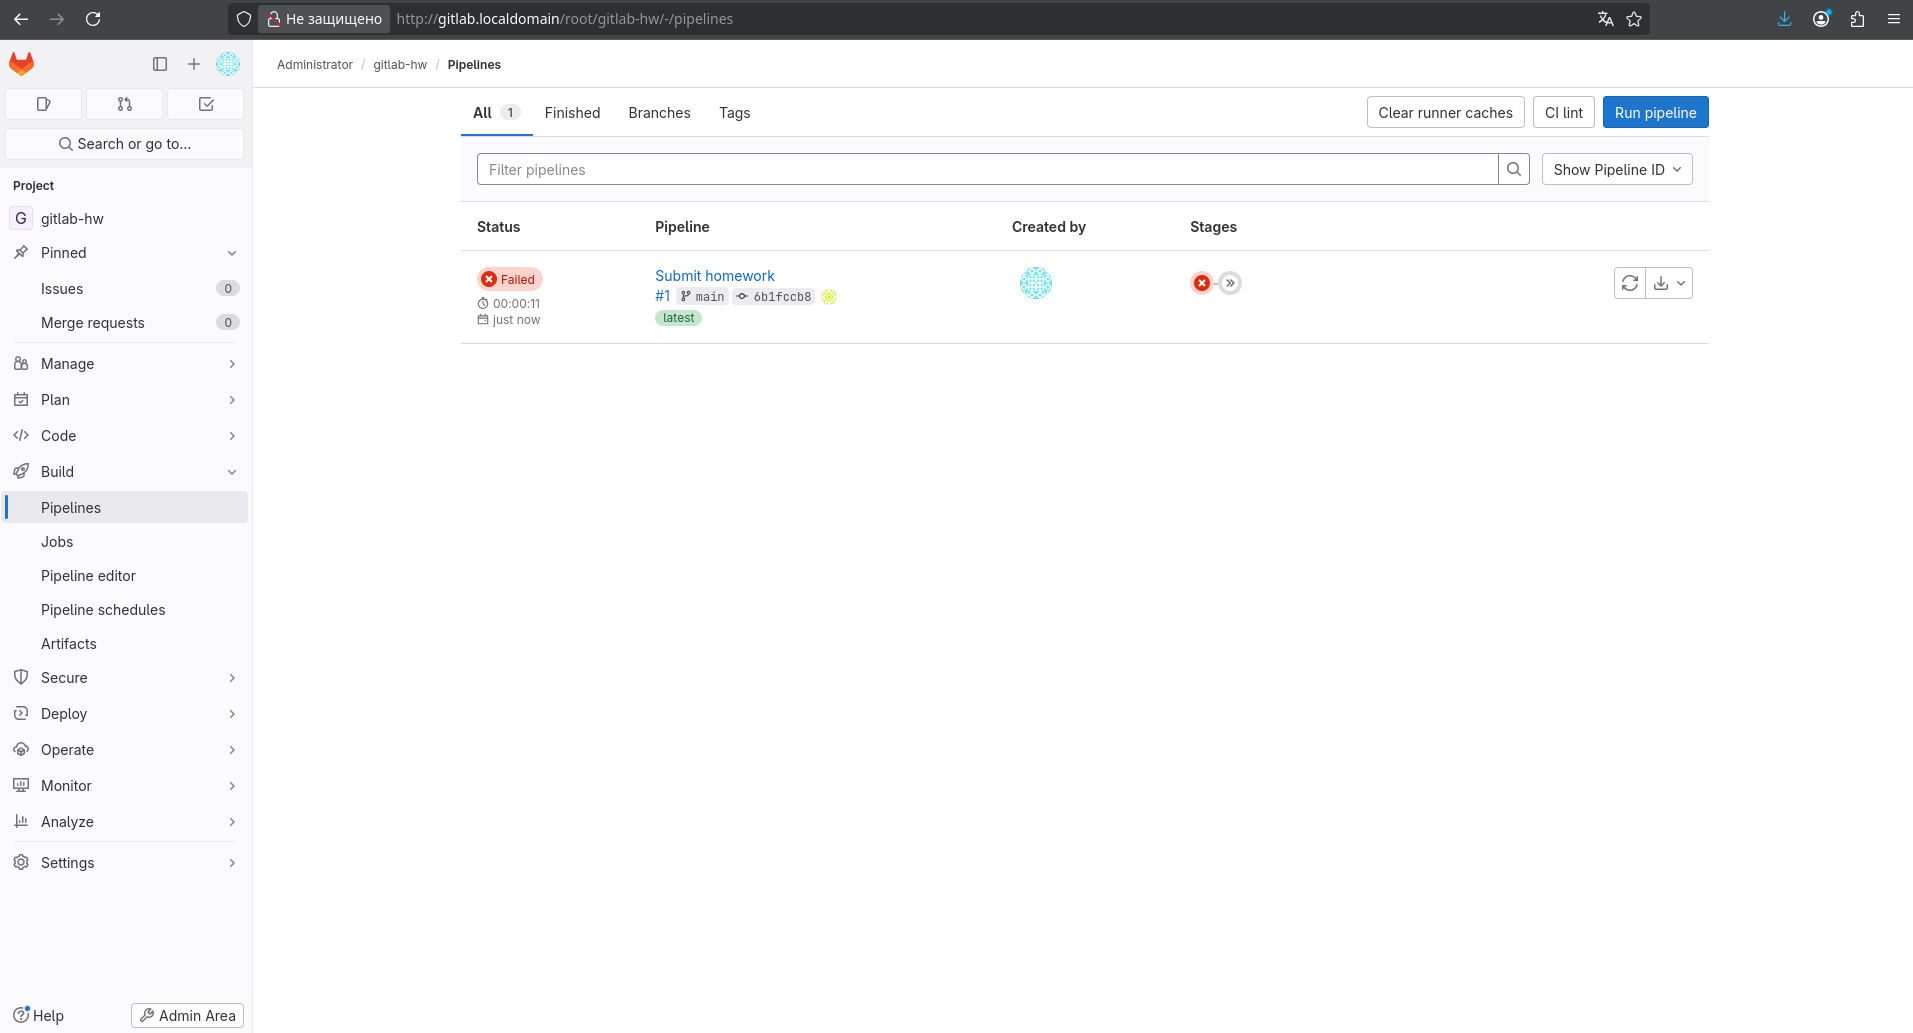
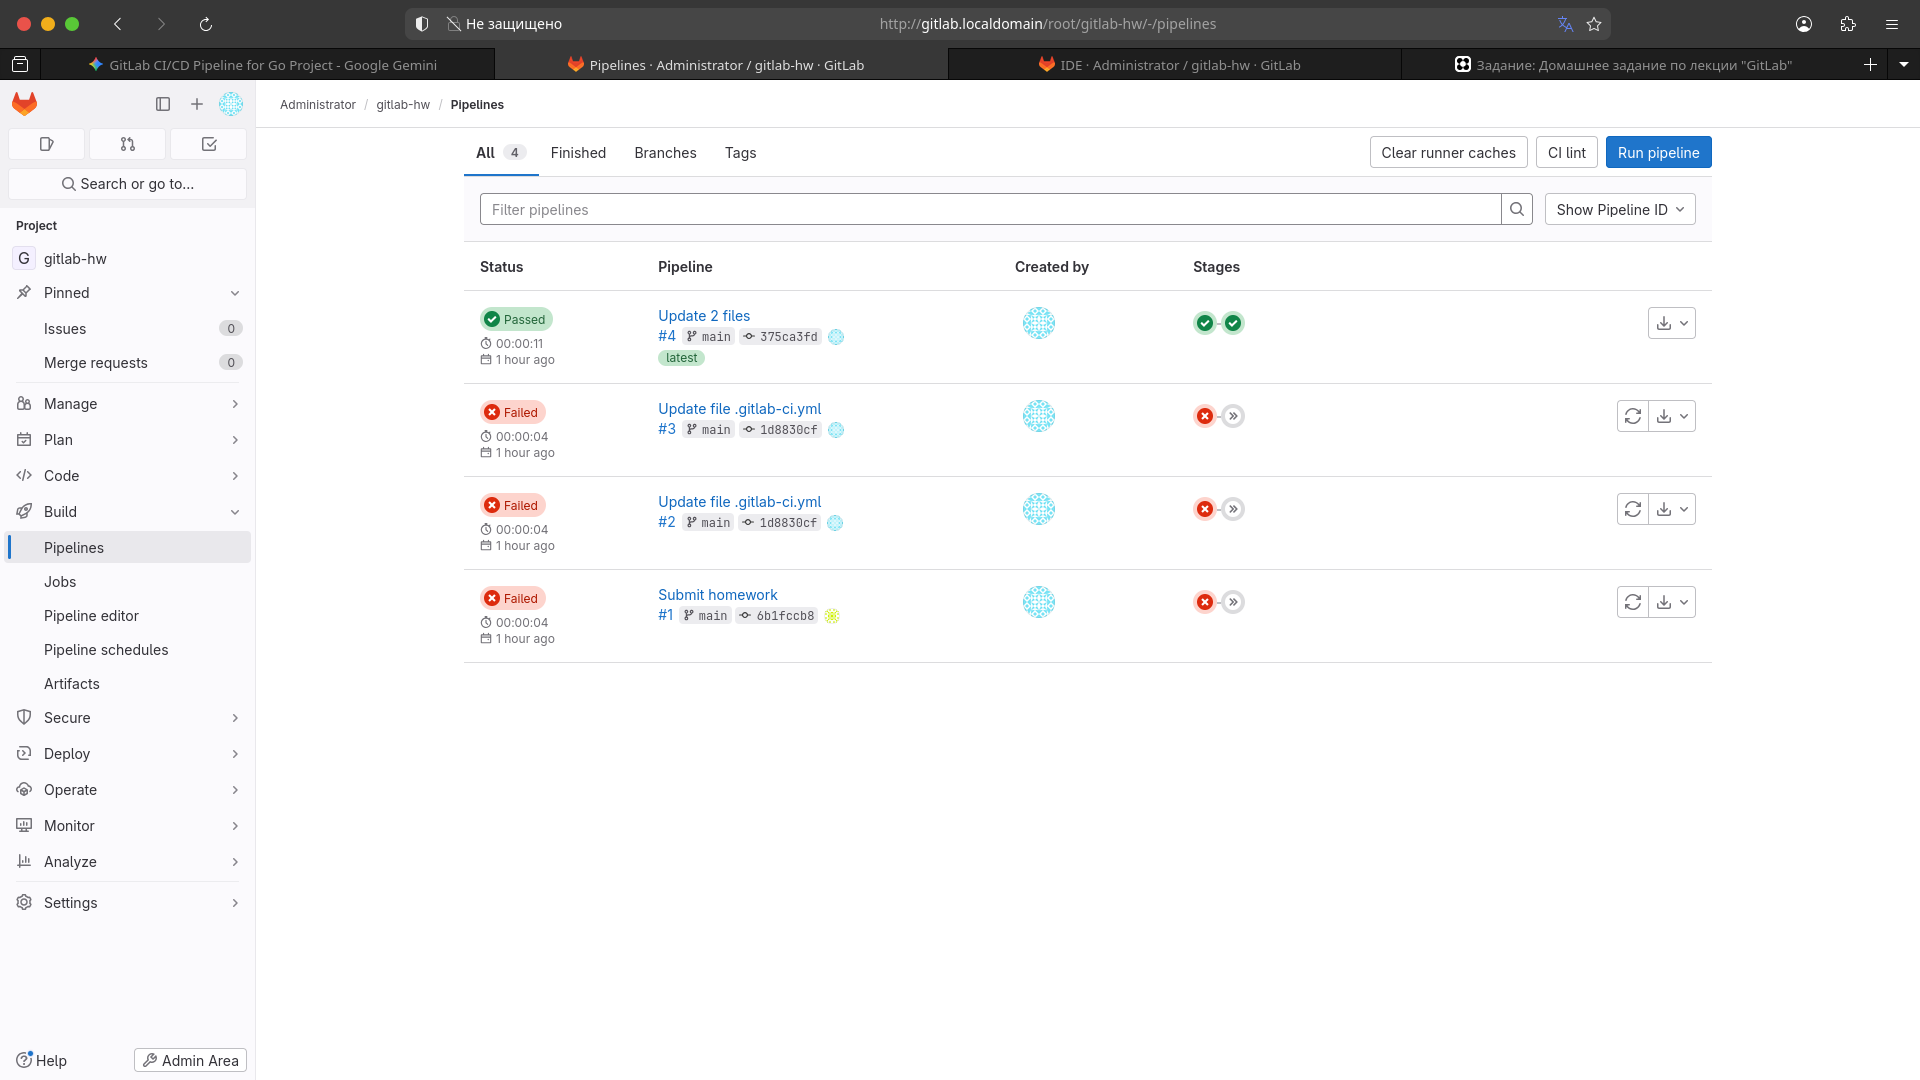
Финальное обновление: добавлен скриншот успешного пайплайна и код

diff --git a/README.md b/README.md
@@ -23,6 +23,15 @@
 Ответ:
 ### Текст файла .gitlab-ci.yml
 
+### Задание 2
+Настроен CI/CD пайплайн для сборки Go-приложения. Файл `.gitlab-ci.yml` добавлен в репозиторий. Пайплайн успешно проходит стадии сборки и тестирования.
+
+Ответ:
+
+![Результат Pipeline](pipeline.png)
+
+### Текст файла .gitlab-ci.yml
+
 ```yaml
 stages:
   - test
@@ -32,17 +41,18 @@ test_project:
   stage: test
   image: golang:1.17
   script:
+    - go mod init myapp
     - go test ./...
 
 build_project:
   stage: build
   image: golang:1.17
   script:
+    - go mod init myapp
     - go build -o myapp
   artifacts:
     paths:
-      - myapp
-```
+      - myapp```
 
 ![Результат Pipeline](pipeline.png)
 ![Результат Pipeline2](pipeline2.png)
